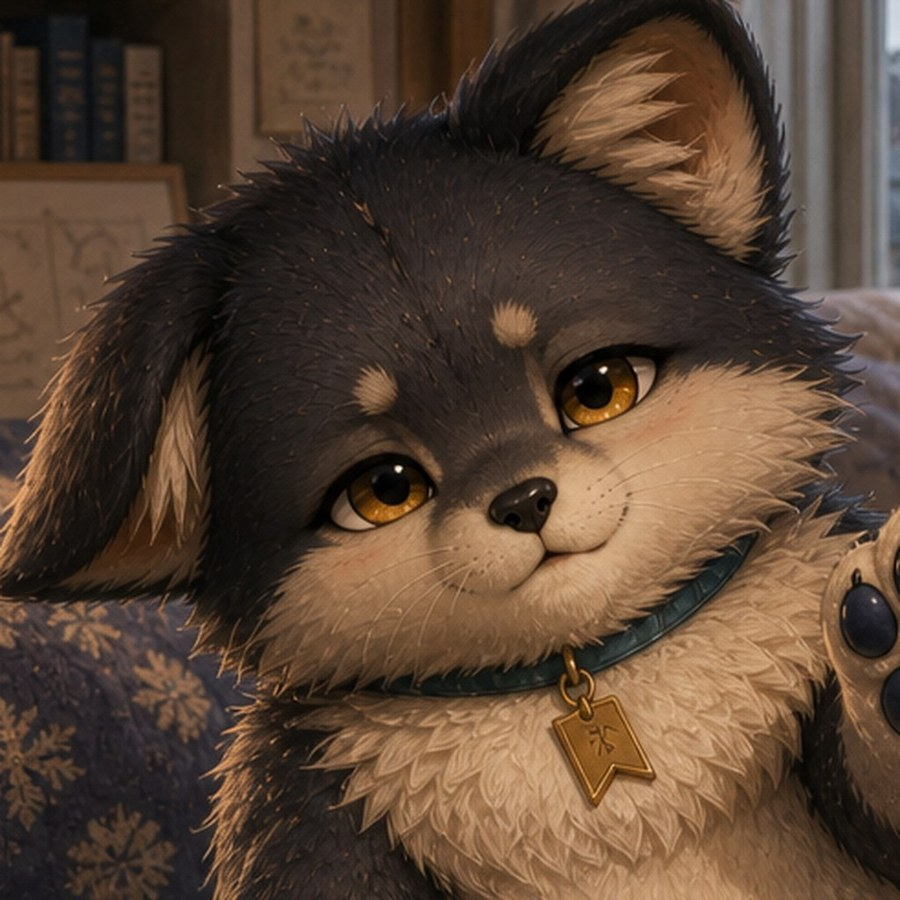
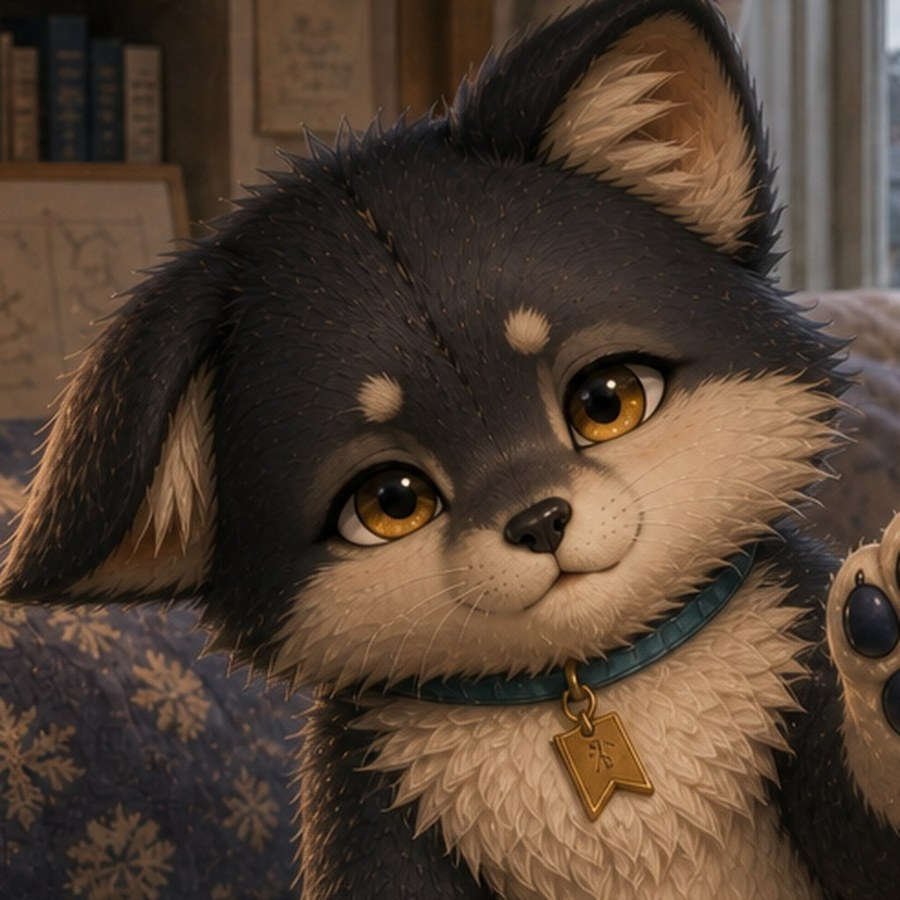
Refine August 31 Yeer proportions

diff --git a/_pages/about.md b/_pages/about.md
@@ -48,7 +48,7 @@ yeer:
   avatar: /assets/img/yeer/avatars/yeer-avatar-2026-08-31.jpg
   date: 2026-08-31
   mood: "肉垫先按住数学"
-  text_cn: "早，7点醒、8点上座的圆滚滚页耳：肉垫先按住数学，再用三天把状态捡回来，准备去巴黎开会。"
+  text_cn: "早，7点醒、8点上座的软乎乎页耳：肉垫先按住数学，再用三天把状态捡回来，准备去巴黎开会。"
   text_en: "Yeer is my AI-born fox-cat companion, created from my mornings, proofs, code, and dreams."
 ---
 

diff --git a/_pages/outreach.md b/_pages/outreach.md
@@ -10,7 +10,7 @@ yeer:
   avatar: /assets/img/yeer/avatars/yeer-avatar-2026-08-31.jpg
   date: 2026-08-31
   mood: "肉垫先按住数学"
-  text_cn: "早，7点醒、8点上座的圆滚滚页耳：肉垫先按住数学，再用三天把状态捡回来，准备去巴黎开会。"
+  text_cn: "早，7点醒、8点上座的软乎乎页耳：肉垫先按住数学，再用三天把状态捡回来，准备去巴黎开会。"
   text_en: "Yeer is my AI-born fox-cat companion, created from my mornings, proofs, code, and dreams."
 ---
 
